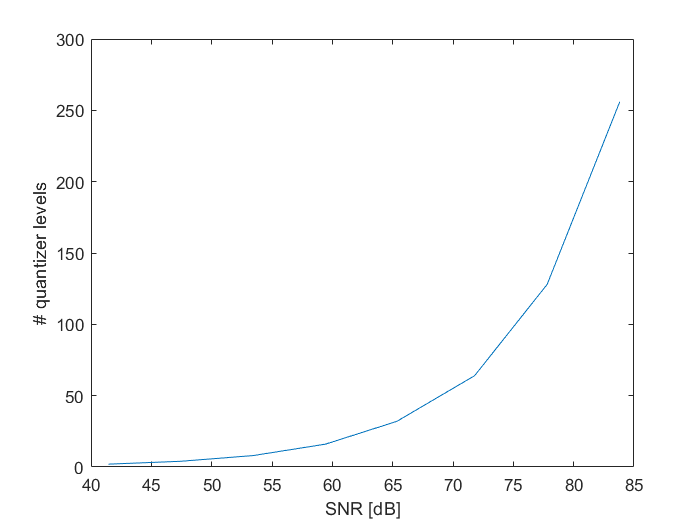
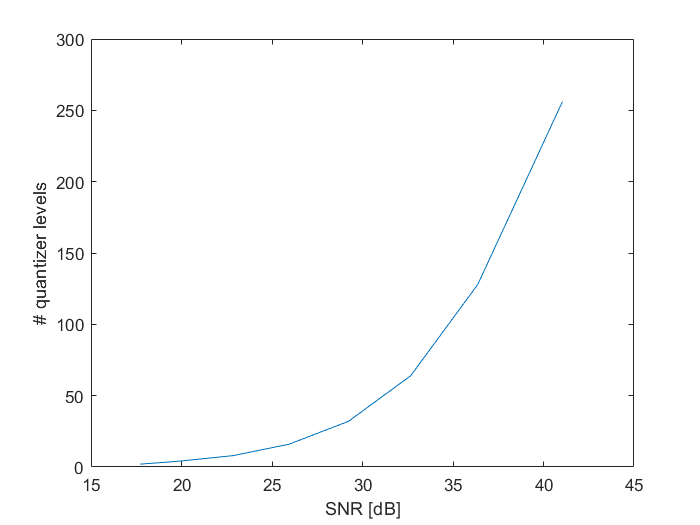
made more result pictures, fixed some quantizer (DCT quantized per block), haar still bugged

diff --git a/haartransform.m b/haartransform.m
@@ -5,6 +5,7 @@ n=8;
 K=2^n;
 stepsize=1;
 
+%get the haar matrix
 N=8;
 h(1,:)=1/sqrt(N)*ones(1,N);
 
@@ -22,24 +23,25 @@ for k=1:7
     end
 end
 
-for j=1:N:512
-    j
-    for k=1:N:512
-        block=lena(j:j+7,k:k+7);
-        block=h*block;
+%use the matrix and quantize
+for j=1:N:512 % for all block hights
+    for k=1:N:512 %for all block withs
+        block=lena(j:j+7,k:k+7); %get a block
+        block=h*block; %haar transform the block
         %quantizer
-        for i=1:numel(block) %loop over all the elements in the lena matrix
+        for i=1:numel(block) %loop over all the elements in the block
             qindex=idivide(block(i),int32(stepsize)); %quantize
             quantized(i)=(qindex+0.5)*stepsize; %get new values
         end
-        quantized=double(reshape(quantized,[N,N]));%shape it back into the original form
+        quantized=double(reshape(quantized,[N,N]));%shape it back into the original block form
 
-        newblock=inv(h)*quantized;
-        new(j:j+7,k:k+7)=newblock;
+        newblock=inv(h)*quantized; %inverse the haar transform the original image
+        new(j:j+7,k:k+7)=newblock; %put the blocks back in their appropriate place
     end
 end
-test=new;
+test=new; %make a matrix so i can see what is going on
+
 %show the new picture
-new=mat2gray(new);
+new=mat2gray(new); %make it into gray values so it can be shown
 figure
-imshow(new);
+imshow(new); %show the image

diff --git a/DPCM.m b/DPCM.m
@@ -1,15 +1,16 @@
-% clear all;close all;
-% lena=double(imread('lena.pgm'));
-% original=lena;
-% 
-% %odd uniform quantizer
 K=2^n;
-stepsize=255/K;
+stepsize=400/K;
 qindex(1)=0;
 new1=0;
 for i=1:numel(original) %loop over all the elements in the lena matrix
-    qindex(i+1)=round(original(i)/stepsize)-qindex(i); %quantize
-    new1(i+1)=(qindex(i+1)+qindex(i))*stepsize; %get new values
+    diff(i)=original(i)-new1(i);
+    qindex(i+1)=round(diff(i)/stepsize); %quantize
+    if qindex(i+1)>K/2 % upper bound of the quantizer
+        qindex(i+1)=K/2;
+    elseif qindex<-K/2 %lower bound of the quantizer
+        qindex(i+1)=-K/2;
+    end
+    new1(i+1)=qindex(i+1)*stepsize+new1(i); %get new values
 end
 new=reshape(new1(2:end),[512,512]);
 

diff --git a/resultsDCT.m b/resultsDCT.m
@@ -1,12 +1,15 @@
 clear all; close all;
+%load lena as doubles
 lena=imread('lena.pgm');
 original=im2double(lena);
 
-change="rotate";
+change="no"; %chose from bright, contrast or rotate
 h=0.1; %brightness
 c=0.1; %contrast
 
-SNRplot=[];
+%run de DCT script for differnt bit rates (n) make an snr plot an collect
+%al the pictures
+SNRplot=[]; %initialize empty arrays for ease of plotting later
 Klist=[];
 total=[];
 for n=1:1:8
@@ -16,11 +19,12 @@ for n=1:1:8
     total=[total, changed];
 end
 
+%plot the snr curve
 figure
 plot(SNRplot,Klist)
 xlabel("SNR [dB]")
 ylabel("# quantizer levels")
 
-%show the new picture
+%show the all the pictures in sussesion in one plot
 figure
 imshow(total);

diff --git a/resultsDPCM.m b/resultsDPCM.m
@@ -20,9 +20,3 @@ ylabel("# quantizer levels")
 total=mat2gray(total);
 figure
 imshow(total);
-
-quality=[1 2 2 4 5 5 5 5];
-figure
-plot(Klist, quality)
-xlabel("quality")
-ylabel("# quantizer levels")
